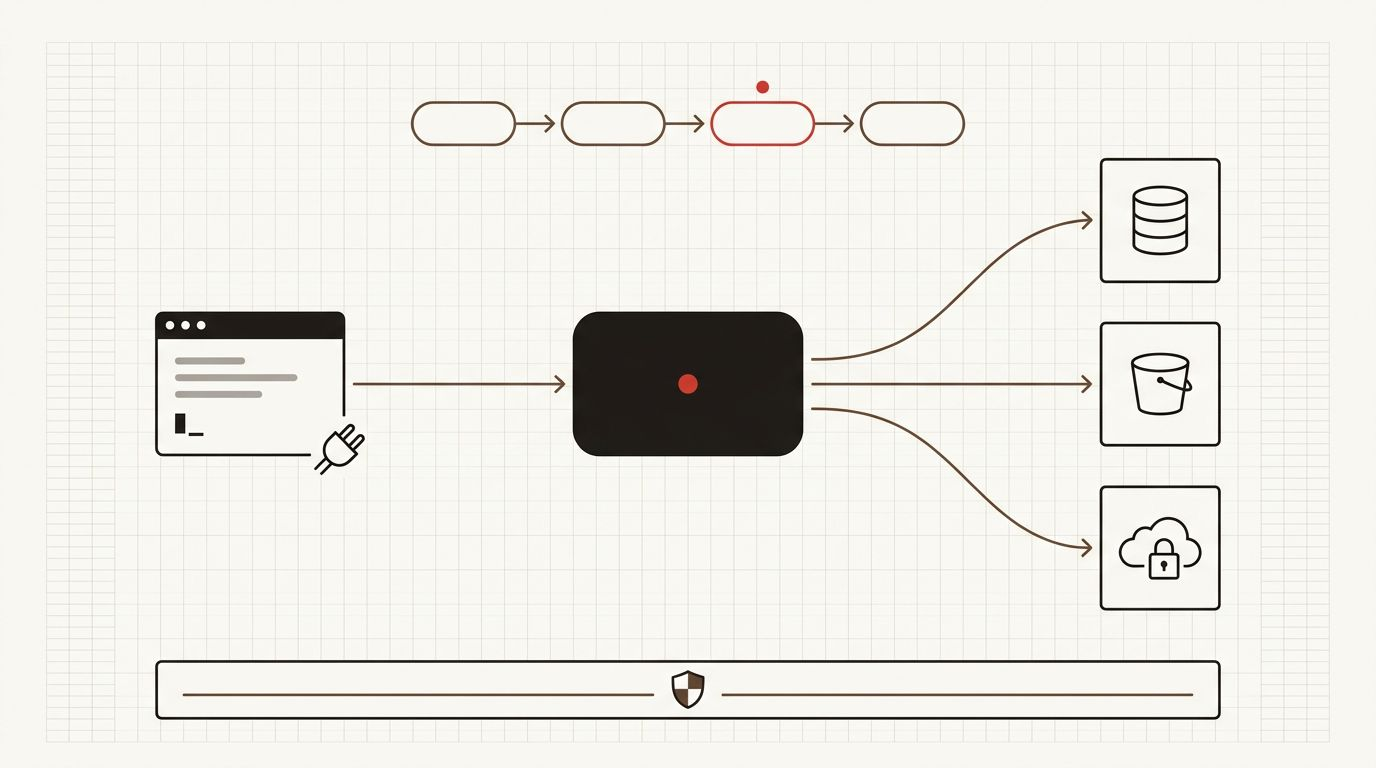
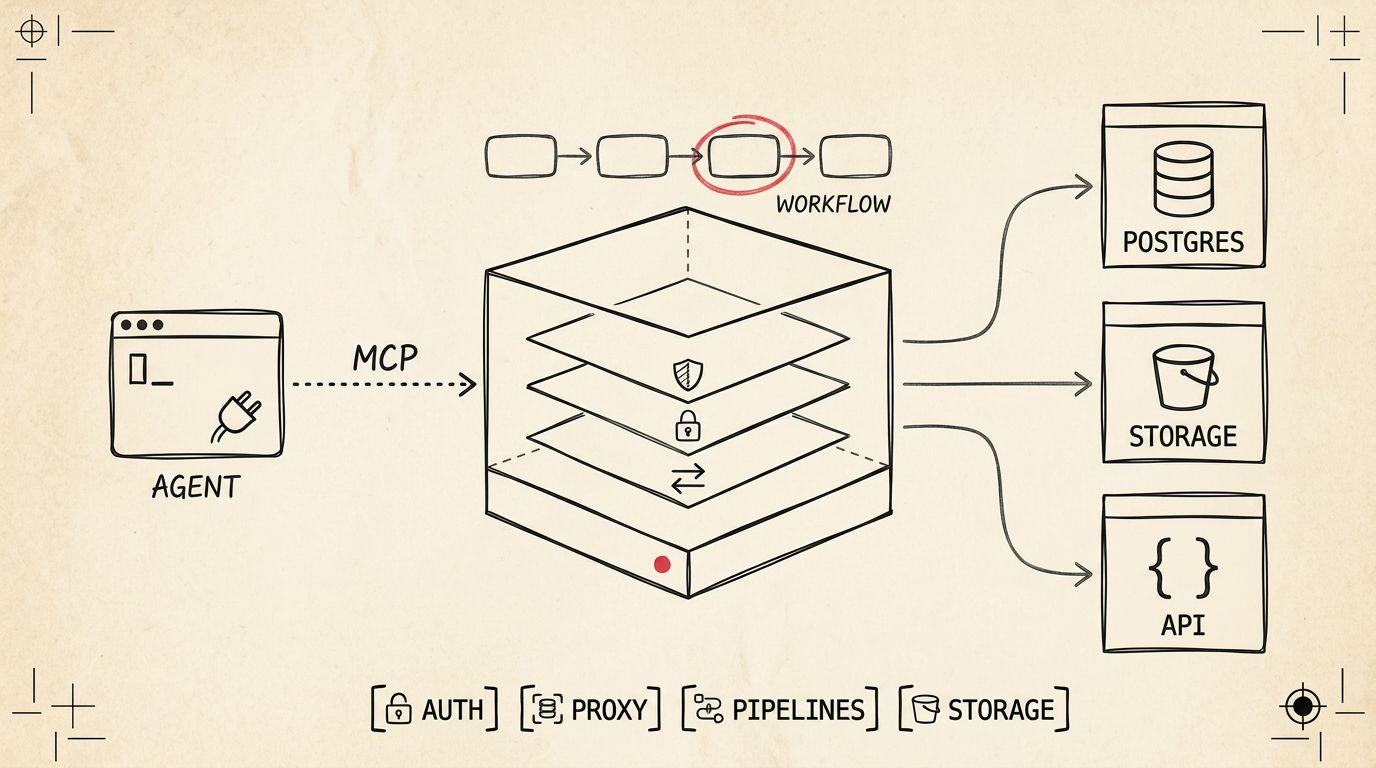
feat(variant-b): retro-blueprint hero, no background image
Third pass on the hero figure: a hand-drawn schematic on parchment in the
retro-blueprint house style from the studio app's image-prompts skill,
generated with two tutorial thumbnails as style references. An agent over MCP
feeds a layered platform box (shield, padlock, proxy arrows), a workflow runs
above it with one step circled in red, and arrows fan out to Postgres, storage,
and an API; a bottom row reads auth · proxy · pipelines · storage. Ten short
labels, all spelled correctly. The drafting-grid background and the caption row
under the figure are removed; the hero sits on plain white.

Claude-Session: https://claude.ai/code/session_01HPBR1k9KrUR5KeaHyfACGR

diff --git a/src/components/landing/Hero.tsx b/src/components/landing/Hero.tsx
@@ -3,12 +3,11 @@ import { trackConversion } from '../../hooks/useAnalytics';
 import { revealDelay } from '../../hooks/useReveal';
 import { LINKS } from '../../content/site';
 
-// Generated figure: the platform as an architecture drawing — an agent over MCP
-// on the left, a workflow across the top, the platform in the middle fanning
-// out to a database, a bucket, and a locked cloud, an edge/TLS bar beneath.
-// Sits on a drafting-grid sheet that fades to plain paper behind the headline.
+// Generated figure in the retro-blueprint house style (the studio app's
+// image-prompts skill, with two tutorial thumbnails as style references): a
+// hand-drawn schematic on parchment — an agent over MCP into the layered
+// platform, a workflow above it, fan-out to Postgres, storage, and an API.
 const HERO_FIGURE = '/images/hero-tour.jpg';
-const HERO_BG = '/images/hero-tour-bg.jpg';
 
 interface HeroProps {
   onEnquire: () => void;
@@ -16,7 +15,6 @@ interface HeroProps {
 
 export default function Hero({ onEnquire }: HeroProps) {
   const figureRef = useRef<HTMLDivElement>(null);
-  const [bgOk, setBgOk] = useState(true);
   const [figureOk, setFigureOk] = useState(true);
 
   // Gentle scroll-linked drift on the figure (max ~20px) for motion-ok users.
@@ -45,19 +43,6 @@ export default function Hero({ onEnquire }: HeroProps) {
 
   return (
     <section id="overview" className="relative scroll-mt-20 overflow-hidden">
-      {bgOk && (
-        <img
-          src={HERO_BG}
-          alt=""
-          aria-hidden="true"
-          onError={() => setBgOk(false)}
-          className="pointer-events-none absolute inset-x-0 bottom-0 w-full h-[78%] object-cover object-bottom opacity-80"
-          style={{
-            maskImage: 'linear-gradient(180deg, transparent 0%, #000 34%)',
-            WebkitMaskImage: 'linear-gradient(180deg, transparent 0%, #000 34%)',
-          }}
-        />
-      )}
       <div className="container-page relative pt-14 md:pt-20 pb-16 md:pb-24 text-center flex flex-col items-center gap-6">
         <span
           className="inline-flex items-center gap-2 rounded-full bg-paper-deep px-3.5 py-1.5 text-[12px] font-semibold text-coffee"
@@ -106,7 +91,7 @@ export default function Hero({ onEnquire }: HeroProps) {
             <div className="rounded-card border border-paper-edge bg-paper shadow-[0_24px_80px_rgba(28,25,23,0.10)] overflow-hidden">
               <img
                 src={HERO_FIGURE}
-                alt="Architecture drawing: an agent connects over MCP to the platform; a workflow runs across the top; the platform fans out to a database, a storage bucket, and a locked cloud, over an edge/TLS layer"
+                alt="Hand-drawn schematic: an agent connects over MCP to the BFFless platform, drawn as a stack of layers (edge, auth, proxy); a workflow runs above it; arrows fan out to Postgres, storage, and an API; a row of boxes reads auth, proxy, pipelines, storage"
                 width={1376}
                 height={768}
                 onError={() => setFigureOk(false)}
@@ -114,12 +99,6 @@ export default function Hero({ onEnquire }: HeroProps) {
                 {...({ fetchpriority: 'high' } as Record<string, string>)}
               />
             </div>
-            <figcaption className="mt-4 flex flex-wrap justify-center gap-x-6 gap-y-1 text-[12px] font-semibold text-ink-mute">
-              <span>Agents over MCP</span>
-              <span>Workflows</span>
-              <span>Auth · proxy · pipelines</span>
-              <span>Your databases and storage</span>
-            </figcaption>
           </figure>
         )}
       </div>
